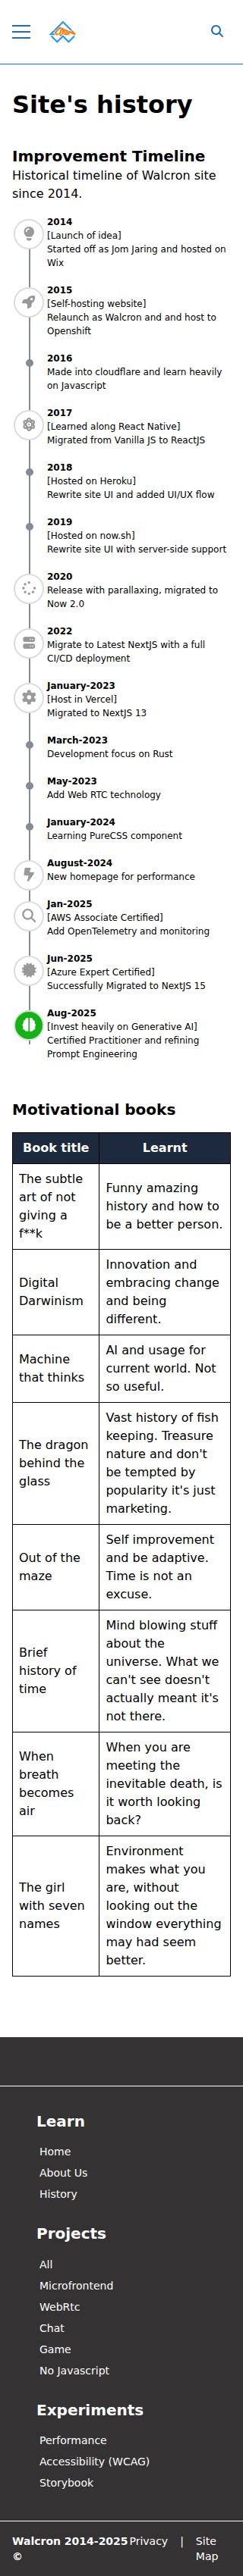
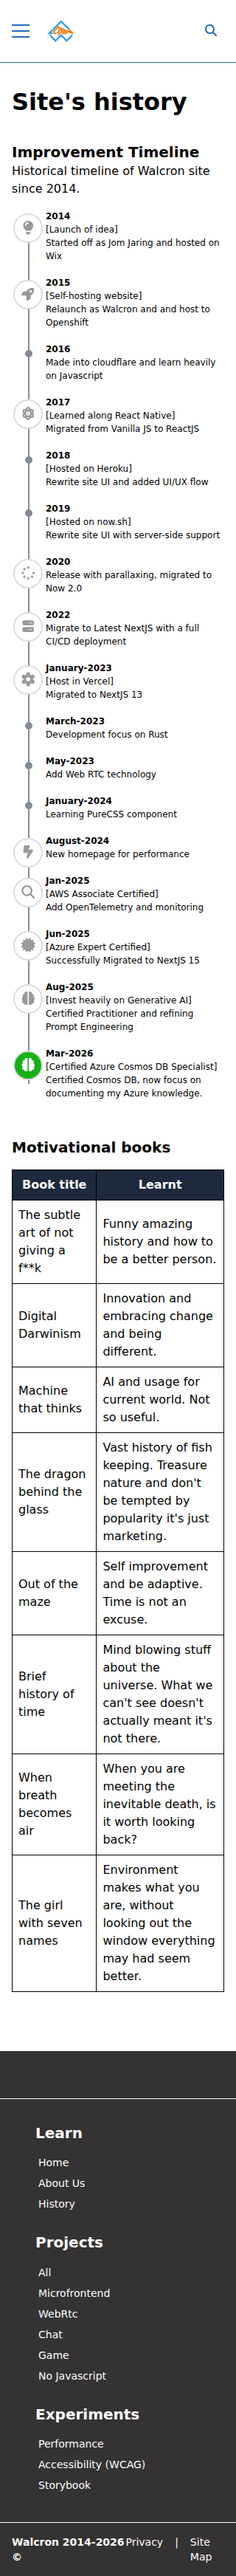
Merge pull request #853 from yoonghan/develop
Update development

Pull request: Update development

diff --git a/src/app/projects/certifications/page.tsx b/src/app/projects/certifications/page.tsx
@@ -10,7 +10,7 @@ import { NpmCommands } from "./config/NpmCommands"
 import { AIPractitioner } from "./config/AIPractitioner"
 import { Metadata } from "next"
 import { AzureDevOps } from "./config/AzureDevOps"
-import { AzureCosmosDBDeveloperSpecialty } from "./config/AzureCosmosDBDeveloperSpecialty"
+import Link from "@/components/Link"
 
 export const metadata: Metadata = {
   title: "Learning",
@@ -31,7 +31,14 @@ const Learning = () => {
         fundamentals.
       </p>
       <section className="grid grid-column gap-4">
-        <AzureCosmosDBDeveloperSpecialty />
+        <article>
+          <p className="text-2xl">DP-420 Azure Cosmos DB Specialist</p>
+          Enjoyed this exam as it's practical and hands-on.
+          <br />
+          <strong>Notes</strong>: <Link href="https://yoonghan.github.io/Azure-Cosmos-DB-DP-420/">
+            Azure Cosmos DB Overview
+          </Link>
+        </article>
         <AzureDevOps />
         <AIPractitioner />
         <AwsSolutionArchitectArticle />
@@ -41,7 +48,7 @@ const Learning = () => {
         <NpmCommands />
       </section>
       <ScrollToTop />
-    </div>
+    </div >
   )
 }
 

diff --git a/src/app/history/config.ts b/src/app/history/config.ts
@@ -151,4 +151,11 @@ export const siteHistory: IEvent[] = [
     desc: "Certified Practitioner and refining Prompt Engineering",
     faIcon: faBrain,
   },
+  {
+    id: "Mar-2026",
+    date: "Mar-2026",
+    special: "Certified Azure Cosmos DB Specialist",
+    desc: "Certified Cosmos DB, now focus on documenting my Azure knowledge.",
+    faIcon: faBrain,
+  },
 ]